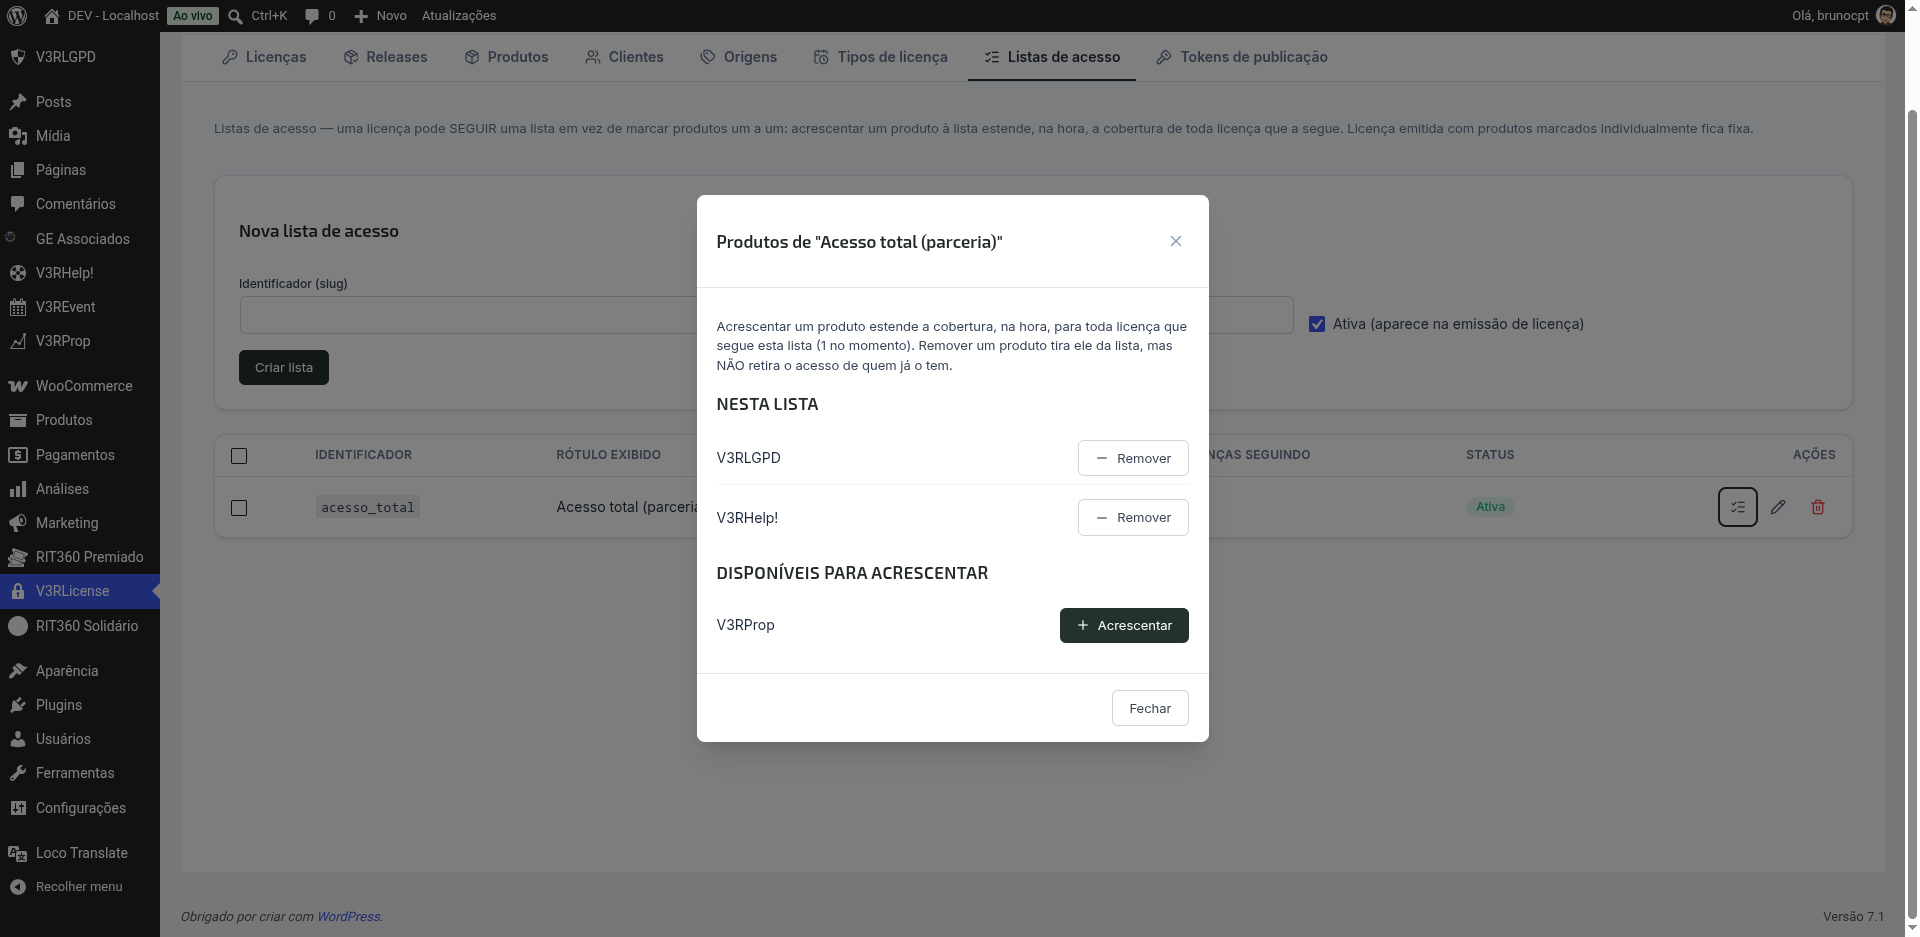
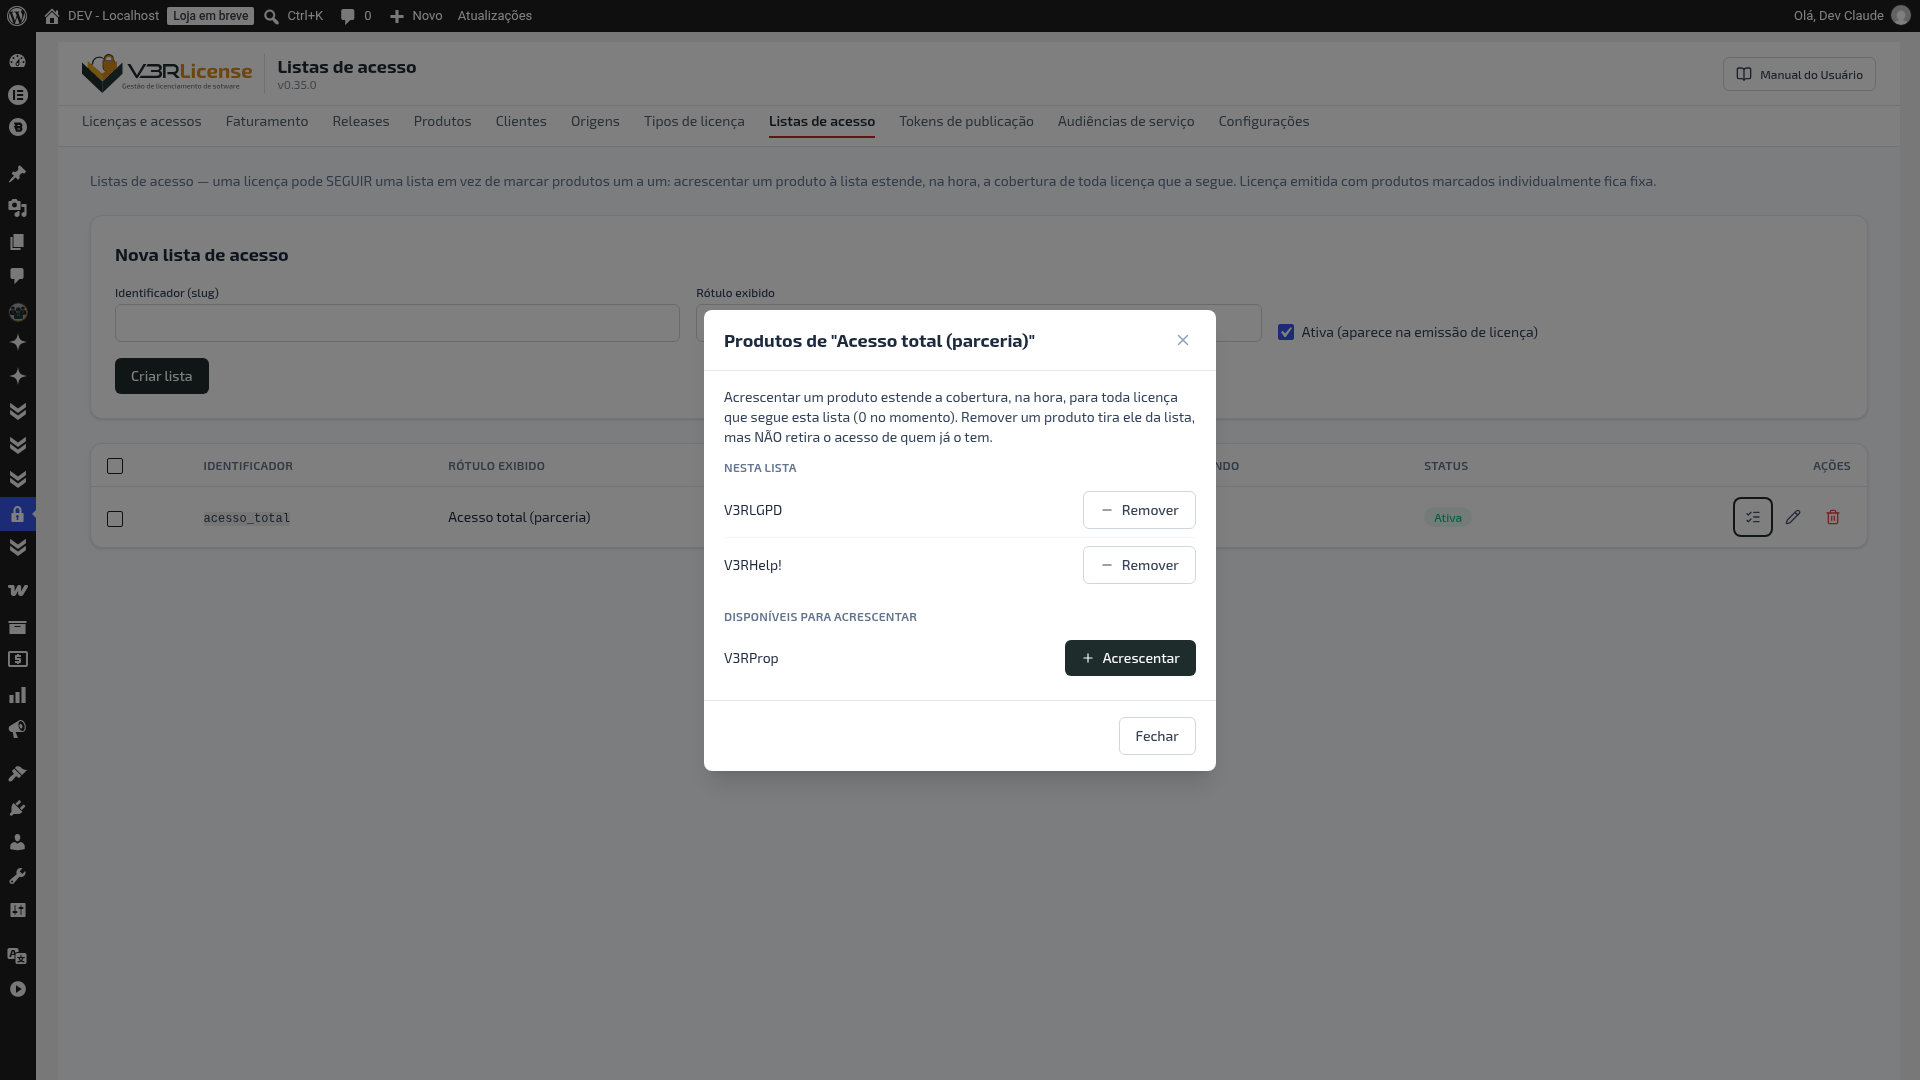
docs: painel com o visual da família (v0.35.0) e atualização no próprio site
Cabeçalho, onze abas e posição dos avisos em Primeiros passos; quatro
capturas refeitas; nota de que plugins da casa no próprio site da V3RTECH
não se atualizam pelo botão.

diff --git a/primeiros-passos.md b/primeiros-passos.md
@@ -9,22 +9,27 @@ O V3RLicense é o plugin WordPress que roda no site que hospeda o servidor de li
 
 ## 1. Onde fica o painel
 
-Acesse `https://v3rtech.com.br/wp-admin/` e faça login com sua conta de administrador. No menu lateral do WordPress, o item **V3RLicense** abre o painel — uma aplicação de página única com oito abas, uma por tipo de cadastro.
+Acesse `https://v3rtech.com.br/wp-admin/` e faça login com sua conta de administrador. No menu lateral do WordPress, o item **V3RLicense** abre o painel — uma aplicação de página única com onze abas, uma por tipo de cadastro.
 
 ![Menu lateral do WordPress com o item V3RLicense destacado em azul, entre Plugins e Hello](/assets/screenshots/menu-wp-admin.png)
 
-## 2. As oito abas, em ordem de uso
+No topo, o cabeçalho traz o logo, o nome da tela em que você está, a versão do servidor e o botão **Manual do Usuário** — que abre este manual numa aba nova, de qualquer lugar do painel. Logo abaixo, a barra de abas: a aba em que você está fica marcada com um traço vermelho embaixo do nome. Quando o WordPress tem algum aviso para mostrar (de outro plugin, ou do próprio núcleo), ele aparece nessa faixa, entre a barra de abas e o conteúdo da tela — nunca dentro do cabeçalho.
+
+## 2. As onze abas, em ordem de uso
 
 | Aba | Para que serve |
 |---|---|
-| **Licenças** | emitir, listar, renovar e revogar licenças |
+| **Licenças e acessos** | emitir, listar, renovar e revogar licenças e acessos |
+| **Faturamento** | acompanhar a receita gerada pelas vendas do servidor |
+| **Releases** | as versões publicadas de cada produto, por onde você também publica manualmente |
 | **Produtos** | cadastrar os plugins que o servidor licencia |
 | **Clientes** | ver e editar quem recebeu licença |
 | **Origens** | os motivos de emissão (venda, cortesia, isenção RIT…) |
 | **Tipos de licença** | as periodicidades (mensal, anual, perpétua…) |
 | **Listas de acesso** | conjuntos nomeados de produtos que uma licença pode seguir, para não emitir uma chave por plugin |
 | **Tokens de publicação** | credenciais que publicam release, para pipeline de CI |
-| **Releases** | as versões publicadas de cada produto, por onde você também publica manualmente |
+| **Audiências de serviço** | os serviços da casa (como o V3RSigner) que um produto pode emitir token de acesso para |
+| **Configurações** | preferências gerais do servidor, como o aviso ao operador |
 
 {: .tip }
 > **A ordem importa na primeira vez.** Produtos, Origens e Tipos de licença são cadastro-base: a tela de Licenças só emite para o que já existe ali. Antes de emitir a primeira licença de um plugin novo, ele precisa estar cadastrado em Produtos — veja **[Registrar um plugin novo](/processos/cadastrar-produto/)**.

diff --git a/processos/diagnostico-sem-atualizacao.md b/processos/diagnostico-sem-atualizacao.md
@@ -10,6 +10,9 @@ nav_order: 12
 
 É a dúvida que mais chega — o cliente vê a versão nova anunciada, mas o wp-admin dele não mostra o aviso de atualização. Antes de mexer em qualquer cadastro, siga esta ordem: a causa mais provável está no topo.
 
+{: .note }
+> **Exceção conhecida: o site da própria V3RTECH.** Nos plugins da casa instalados no site que hospeda o servidor de licenças (o mesmo onde você está agora), o botão **Atualizar** do WordPress não funciona — a atualização termina em **"Falha no download. Service Unavailable"**. Isso é esperado, não indica defeito do servidor de licenças, e não precisa de diagnóstico: nesse site a atualização é feita por implantação, não pelo botão. Não é preciso fazer nada além de aguardar a implantação. Esse roteiro vale normalmente para os sites dos clientes, onde a atualização automática funciona sem essa exceção.
+
 ## Roteiro de verificação
 
 1. **A licença dele está ativa?** Abra **Licenças**, filtre pelo nome ou e-mail do cliente. Se o status for "Expirada" ou "Revogada", é isso — atualização e download são bloqueados enquanto a licença não estiver ativa (veja **[Como funciona a licença](/como-funciona/)**). A saída é **[renovar](/processos/renovar-licenca/)** (se expirada) ou emitir uma licença nova (se revogada).
